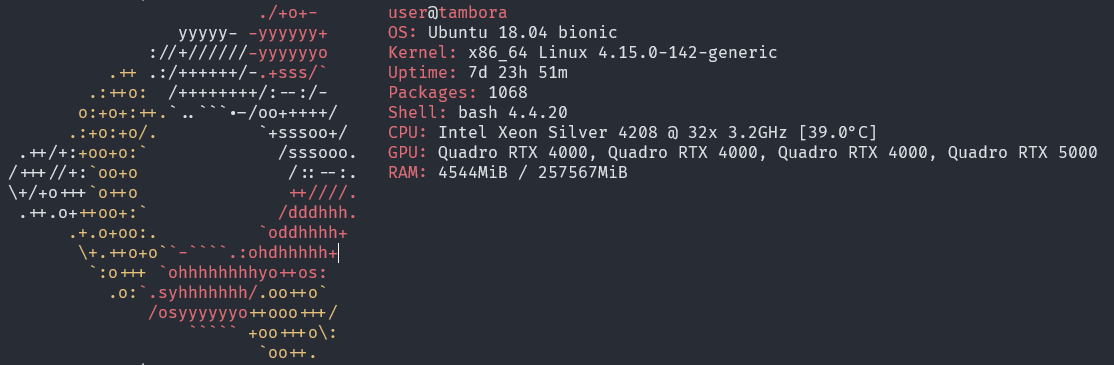
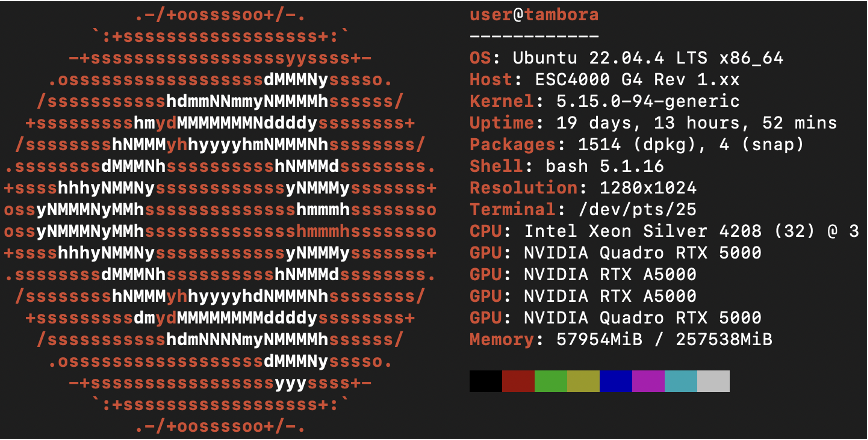
Update readme & FAQ 28-3-2024

Changed region(s): [[0.0, 0.0, 1.0, 1.0], [0.5288, 0.8137, 0.8399, 0.9041]]

diff --git a/FAQ.md b/FAQ.md
@@ -2,14 +2,14 @@
 
 ## Bagaimana cara memilih GPU
 
-Hal ini tidak ada panduan umumnya. Karena saat ini semua GPU tersedia untuk semua user. Sehingga untuk menggunakan GPU, silahkan booking waktu untuk GPU tertentu di [form booking server](https://docs.google.com/spreadsheets/d/1abFMd7kmAc2AeMesAhmw1Of0ukaGwSNNUB3BTQ_Zz6I/edit?usp=sharing). Sedangkan untuk teknis pemilihan GPU nya didasari asas tanggung jawab bersama.
+Hal ini tidak ada panduan umumnya. Karena saat ini semua GPU tersedia untuk semua user. Sehingga untuk menggunakan GPU, silahkan lakukan reservasi waktu untuk GPU tertentu di spreadsheet reservasi server (tautan di grup WhatsApp). Teknis pemilihan GPU didasari asas tanggung jawab bersama dan komunikasi antarpengguna server.
 
-Jadi kamu diharapkan untuk secara bertanggung jawab memilih GPU yang digunakan sesuai dengan tools/framework masing-masing. Beberapa contoh yang cukup bermanfaat:
+Berikut beberapa contoh cara pemilihan GPU pada library Python:
 - [Tensorflow](https://stackoverflow.com/questions/40069883/how-to-set-specific-gpu-in-tensorflow)
 - [Pytorch](https://discuss.pytorch.org/t/how-to-change-the-default-device-of-gpu-device-ids-0/1041/8)
 - [Darknet](https://github.com/pjreddie/darknet/issues/291)
 
-## Bagaimana cara install versi python yang lain?
+## Bagaimana cara memasang versi Python yang lain?
 
 Gunakan terminal pada jupyterhub, lalu buat environment baru dengan menggunakan conda. Jangan lupa untuk menentukan python version dan juga menginstall ipython dan jupyter kernel
 ``` bash
@@ -30,9 +30,9 @@ conda activate [name env]
 ipython kernel install --name "[nama env]" --user
 ```
 
-Lalu buka [jupyterhub control panel](http://167.205.32.108/hub/home) untuk stop server lalu start server kembali
+Lalu buka JupyterHub Control Panel (File -> Hub Control Panel) untuk stop server lalu start server kembali.
 
-sekarang kernel yang kamu bikin akan ada di halaman utama jupyterhub. Jangan lupa untuk install kembali package yang dibutuhkan karena package tidak terbawa antar kernel.
+Sekarang, kernel yang kamu buat akan ada di halaman utama JupyterHub. Jangan lupa untuk instal kembali package yang dibutuhkan karena package tidak terbawa antar-kernel.
 ``` python
 # Untuk mengecek versinya sudah benar silahkan jalankan
 from platform import python_version
@@ -40,47 +40,35 @@ from platform import python_version
 print(python_version())
 ```
 
-## Koneksi VPN nya ga stabil, dan kadang servernya mati sebelum selesai, gimana ya baiknya?
+## Bagaimana cara menangani ProxyError atau Error 407
 
-kamu bisa setup untuk konek dengan SSH, dengan cara
+Kemungkinan hal ini terjadi karena kredensial proxy bawaan server sudah kedaluwarsa atau kredensial proxy tidak terbaca oleh program.
 
-Akses Jupyter Hub Server dengan akun kamu
+Jangan lupa untuk mencoba restart server JupyterHub di Control Panel (File -> Hub Control Panel) setiap selesai mencoba solusi-solusi di bawah untuk memastikan keberhasilan/kegagalan solusi 😁 Kalau masih tidak bisa, jangan sungkan mengubungi admin.
 
-Buka Terminal dan buat file ~/.ssh/authorized_keys
+### Solusi 1: Mengatur program untuk pakai proxy
 
+Beberapa program seperti pip dan conda memiliki alternatif solusi khusus untuk menggunakan proxy. Silakan telaah dokumentasi library/program tersebut atau cari cara pemasangan proxy khusus library/program tersebut di Google dengan kata pencarian "Configure proxy for [nama library/program]"
+
+Berikut contoh cara konfigurasi proxy untuk [pip](https://pip.pypa.io/en/stable/user_guide/#using-a-proxy-server) dan [conda](https://stackoverflow.com/a/31120854).
+
+### Solusi 2: Menggunakan kredensial proxy sendiri
+
+Untuk menggunakan kredensial proxy milik sendiri, tambahkan kode berikut di dalam berkas `~/.bashrc` 
 ```bash
-mkdir ~/.ssh
-vim ~/.ssh/authorized_keys
+export http_proxy="http://{email_akun_itb}:{pass_proxy}@cache.itb.ac.id:8080"
+export https_proxy="http://{email_akun_itb}:{pass_proxy}@cache.itb.ac.id:8080"
+export pip_proxy="http://{email_akun_itb}:{pass_proxy}@cache.itb.ac.id:8080"
 ```
 
-Copy public key kamu kedalam file tersebut, save dan sekarang kamu bisa mengakses server dengan ssh, dari akses tersebut, gunakan tmux untuk menjalankan script yang perlu berjalan lama dan bisa ditinggal walaupun VPN bermasalah. Untuk detail mengenai membuat ssh key pair, bisa ikuti [Help dari Github](https://docs.github.com/en/github/authenticating-to-github/connecting-to-github-with-ssh/generating-a-new-ssh-key-and-adding-it-to-the-ssh-agent)
+> Tips: gunakan perintah `nano ~/.bashrc` di Terminal untuk mengedit teks dengan [nano](https://www.howtogeek.com/42980/the-beginners-guide-to-nano-the-linux-command-line-text-editor/)
 
-P.S. tmux mirip seperti `screen`, untuk pengenalan tmux bisa dicari sendiri, salah satu bacaan yang direkomendasikan adalah [artikel oleh Nick Janetakis](https://nickjanetakis.com/blog/who-else-wants-to-boost-their-productivity-with-tmux)
+Kredensial proxy bisa dilihat di [halaman manajemen akun ITB](https://dti.itb.ac.id/nic/manajemen_akun/informasi_password_proxy).
 
-## Waktu install make pip dan conda kok gabisa ya? kena ProxyError
+## Bagaimana cara salin-tempel di Terminal?
 
-Nah ini masih bingung kenapanya, kadang error kadang aman, jadi kalau ada masalah gini cobain kasih manual [proxy ITB](https://ditsti.itb.ac.id/en/proxy-internet-itb/) kamu waktu manggil [`pip`](https://leifengblog.net/blog/how-to-use-pip-behind-a-proxy/) atau [`conda`](https://docs.anaconda.com/anaconda/user-guide/tasks/proxy/). 
+Untuk menyalin teks dari Terminal JupyterHub, blok teks yang ingin disalin dari Terminal kemudian klik kanan dan pilih "Copy". Untuk menempel teks, cukup klik kanan di Terminal kemudian pilih "Paste".
 
-### Update 1: Ternyata Masalah Akun
+Untuk pengguna MacOS, Anda juga dapat langsung menggunakan pintasan keyboard `Command+C` dan `Command+V` untuk menyalin dan menempel 😁
 
-Ternyata masalah ini muncul karena akun yang dipake kemarin sudah kadaluarsa. Jadi kalau terjadi lagi kayak gini bisa lapor ke Admin, dan untuk sementara bisa menambahkan http_proxy di bashrc masing2.
-
-pada terminal jupyterhub: `nano ~/.bashrc` lalu di paling bawah masukkan:
-```bash
-export http_proxy="http://{user_ina}:{pass_ina}@cache.itb.ac.id:8080"
-export https_proxy="http://{user_ina}:{pass_ina}@cache.itb.ac.id:8080"
-```
-
-untuk `{user_ina}` dan `{password}` bisa dilihat di [halaman akun INA kamu](https://ditsti.itb.ac.id/nic/manajemen_akun/informasi_password_proxy).
-
-kalau belum bisa juga bisa coba matikan dan nyalakan jupyterhubnya kembali.
-
-### Update 2: Sudah menggunakan dedicated proxy credential
-
-Saat ini sudah menggunakan proxy credentials khusus untuk server, sehingga seharusnya tak ada masalah lagi karena kadaluarsa (admin lulus). Namun untuk mencegah kuota habis, sangat direkomendasikan untuk menggunakan credential masing-masing, hal ini bisa dilihat pada bagian [proxy](https://github.com/server-if/server-if.github.io/issues/4)
-
-## Bagaimana Cara Copy Paste ke Terminal Jupyter Hub
-
-Untuk Copy dan Paste bisa melakukan select biasa pada tulisan, lalu gunakan <kbd>SHIFT</kbd> + <kbd>RIGHT CLICK</kbd> untuk membuka context menu, dan bisa memilih <kbd>Copy</kbd> dan <kbd>Paste</kbd>
-
-
+![Salin-tempel di Terminal](./resources/tambora-terminal-cp.png)

diff --git a/README.md b/README.md
@@ -1,36 +1,117 @@
 # Server Tambora
 
-![system spec](./resources/tambora-screenfetch.png)
+![System spec](./resources/tambora-screenfetch.png)
 
-## Cara Akses
+## Spesifikasi sistem
 
-### Requirements
-
-- [ ] Setup VPN untuk ITB ([ikuti dari DITSTI](https://ditsti.itb.ac.id/en/instalasi-dan-konfigurasi-openvpn-itb/))
-  - [ ] Biasanya Download [OpenVPN](http://vpn.itb.ac.id/openvpn/Windows/openvpn-install-2.4.0-I601.exe) dan setup [Konfigurasi](http://vpn.itb.ac.id/openvpn/Windows/config-vista.exe)
-- [ ] Dengan VPN aktif, Buat akun dengan mengakses [Jupyterhub Server](http://167.205.32.108/hub/) dan **dengan user berupa nim anda**
-- [ ] Request ke Admin dengan **menggunakan email std.stei** dengan mengisi [form akses](https://forms.gle/fbpLT9gtQQm1GcXWA).
-- [ ] Setelah itu anda akan mendapatkan email berisi google sheets booking server dan discord server untuk FAQ, Bug Report, info maintenance, dll.
-- [ ] Setelah mengisi google sheets silahkan pergunakan server sesuai dengan jadwal yang telah anda booking.
-
-## Current Installed Program
-
-- git and git-lfs
-- python 3.7 as default
-  - conda untuk environment tambahan
-  - pytorch dan tensorflow package default
-- 
-
-## Pertanyaan Lain
-
-## Other Specs
-
-### NVIDIA
-![GPU spec](./resources/tambora-nvidia.png)
 ### CPU
-![CPU spec](./resources/tambora-cpu.png)
-### Threads
-![htop spec](./resources/tambora-process.png)
-### Storage
-![storage spec](./resources/tambora-storage.png)
-> Dua storage belum di mount, untuk saat ini hanya 1TB space
+
+Intel Xeon Silver 4208 @3.2GHz (x2, 16C/32T total)
+
+### Memori (RAM)
+
+256GB DDR4-2666
+
+> Catatan: Penggunaan RAM tiap pengguna dibatasi 128GB
+
+### GPU
+
+![GPU spec](./resources/tambora-nvidia.png)
+
+### Penyimpanan
+
+![Storage status](./resources/tambora-storage.png)
+
+## Akses server
+
+### Tautan server
+
+[JupyterHub](https://simanis.stei.itb.ac.id/)
+
+### Pendaftaran
+
+- Daftarkan akun JupyterHub Anda di server dengan **NIM sebagai username**
+- Dengan akun Google Workspace STEI, isi [form akses server](https://forms.gle/fbpLT9gtQQm1GcXWA)
+- Setelah admin melakukan aktivasi akun, admin akan mengontak melalui WhatsApp. Admin akan memberikan tautan grup pengguna server dan arahan awal
+- Gabung ke grup WhatsApp server untuk mendapatkan informasi terbaru dan melakukan koordinasi dengan admin maupun pengguna server lainnya
+
+### Penggunaan
+
+- Isi spreadsheet reservasi server (tautan di grup WhatsApp) sesuai dengan waktu penggunaan dan pilihan GPU yang diinginkan
+- Buka server di peramban web dan masuk dengan kredensial Anda
+- Gunakan server sesuai reservasi yang telah dibuat
+
+### Booking spreadsheet & resource sharing policy
+
+- Spreadsheet hanya perlu diisi jika hendak menggunakan pemrosesan GPU atau pemrosesan-CPU-berat
+- Penggunaan biasa, seperti mengunggah data, tidak perlu mengisi spreadsheet
+- Spreadsheet akan dikosongkan setiap Senin pukul 3 sore
+- Admin berhak menghentikan proses yang melanggar aturan di atas
+- Admin berhak memberikan sanksi pada pelanggar aturan tersebut, mulai dari teguran hingga larangan penggunaan server, baik sementara maupun permanen
+
+## Software server
+
+### Tangkapan layar JupyterHub
+![JupyterHub UI](./resources/tambora-ui.png)
+
+Berikut beberapa software yang tersedia pada server.
+- [JupyterHub](https://github.com/jupyterhub/jupyterhub)
+  - Antarmuka pengguna seluruhnya menggunakan JupyterHub
+  - Terdapat terminal untuk menjalankan perintah Linux
+- Git LFS
+- Python 3.10
+  - Versi Python bawaan JupyterHub
+  - Conda untuk environment tambahan
+  - PyTorch dan TensorFlow
+
+### Cara pasang package/aplikasi tambahan
+
+- Package pip (user installation)
+
+  `pip install --user package_name`
+
+- Menjalankan executable
+
+  Seharusnya executable dapat langsung dijalankan.
+
+- Package conda, aplikasi Ubuntu (via apt), package pip (system-wide)
+
+  Isi [form ini](https://forms.gle/pR64RAPc8V3bGeGx8) untuk melakukan request pemasangan software lainnya.
+
+## Catatan-catatan
+
+### Lupa kata sandi
+
+Saat ini, belum tersedia fasilitas reset kata sandi. Apabila lupa kata sandi, Anda perlu menghubungi admin untuk melakukan reset akun. Reset akun **tidak memengaruhi** data yang tersimpan selama akun JupyterHub menggunakan username yang sama.
+
+### Unggahan data
+
+Ukuran berkas (file) maksimal yang dapat diunggah ke server melalui JupyterHub adalah 10 GB. Apabila ukuran berkas lebih besar dari 10 GB, gunakan metode lain untuk mengunggah seperti menggunakan GDown ([Tutorial](https://docs.google.com/presentation/d/1vH9s52eKXUIV9fZaYlJ8C1Za2p2MZIlilscoF3Vxmwg/view))
+
+### Data pengguna
+
+<span style="color:red">PENTING!</span> Mohon selalu sediakan cadangan (backup) dari data Anda di server. Server mungkin mengalami gangguan atau kerusakan yang dapat berdampak terhadap data Anda. <span style="color:red">Admin tidak bertanggung jawab atas kerusakan atau kehilangan data pengguna.</span>
+
+### Memory management
+
+Untuk menghindari kebocoran memori (RAM) server, selalu lakukan **kernel shutdown** (Kernel -> Shut Down Kernel) pada notebook/console setelah proses training selesai dan pastikan untuk melakukan **server shutdown** (File -> Hub Control Panel -> Stop My Server) setelah sesi penggunaan server selesai.
+
+### Penggunaan Nvidia RTX A5000
+
+Untuk menggunakan Nvidia RTX A5000 dengan PyTorch, versi minimal PyTorch yang dibutuhkan adalah 1.13.1+cu117. Untuk memeriksa versi PyTorch dapat diperiksa melalui atribut `__version__` dari modul PyTorch. Berikut contoh kode Python untuk mengecek versi PyTorch:
+```Python
+import torch
+print(torch.__version__)
+```
+
+## Sitasi
+
+Jika Anda menggunakan fasilitas server Tambora baik untuk keperluan akademik, mohon cantumkan “Server Riset Akademik Tambora” pada bagian acknowledgment atau sejenisnya pada laporan ataupun publikasi yang Anda hasilkan sebagai bentuk apresiasi 😁🙏
+
+## [Pertanyaan lainnya (FAQ)](./FAQ.md)
+
+## Kontak kami
+
+### [Stefanus - Admin S2](23523036@std.stei.itb.ac.id)
+
+### [Aufar - Admin S1](18221163@std.stei.itb.ac.id)
